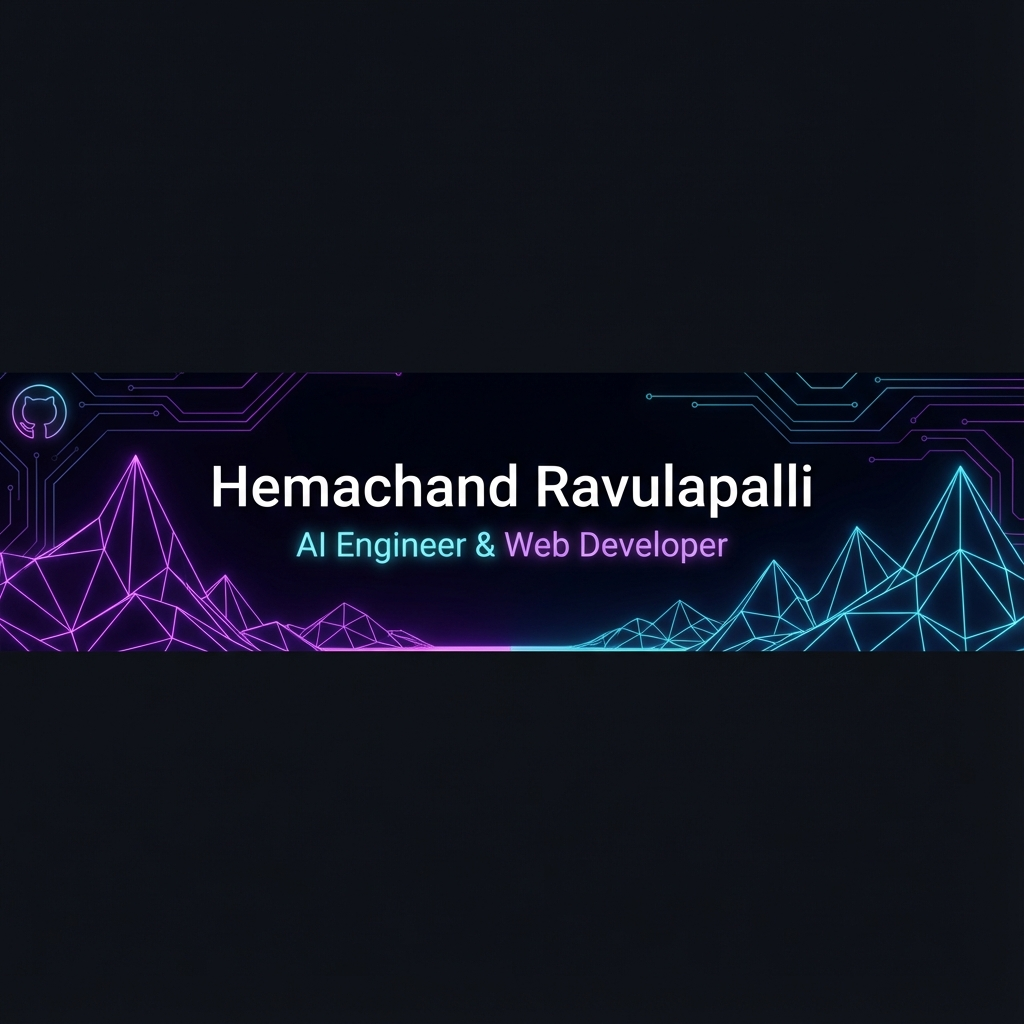
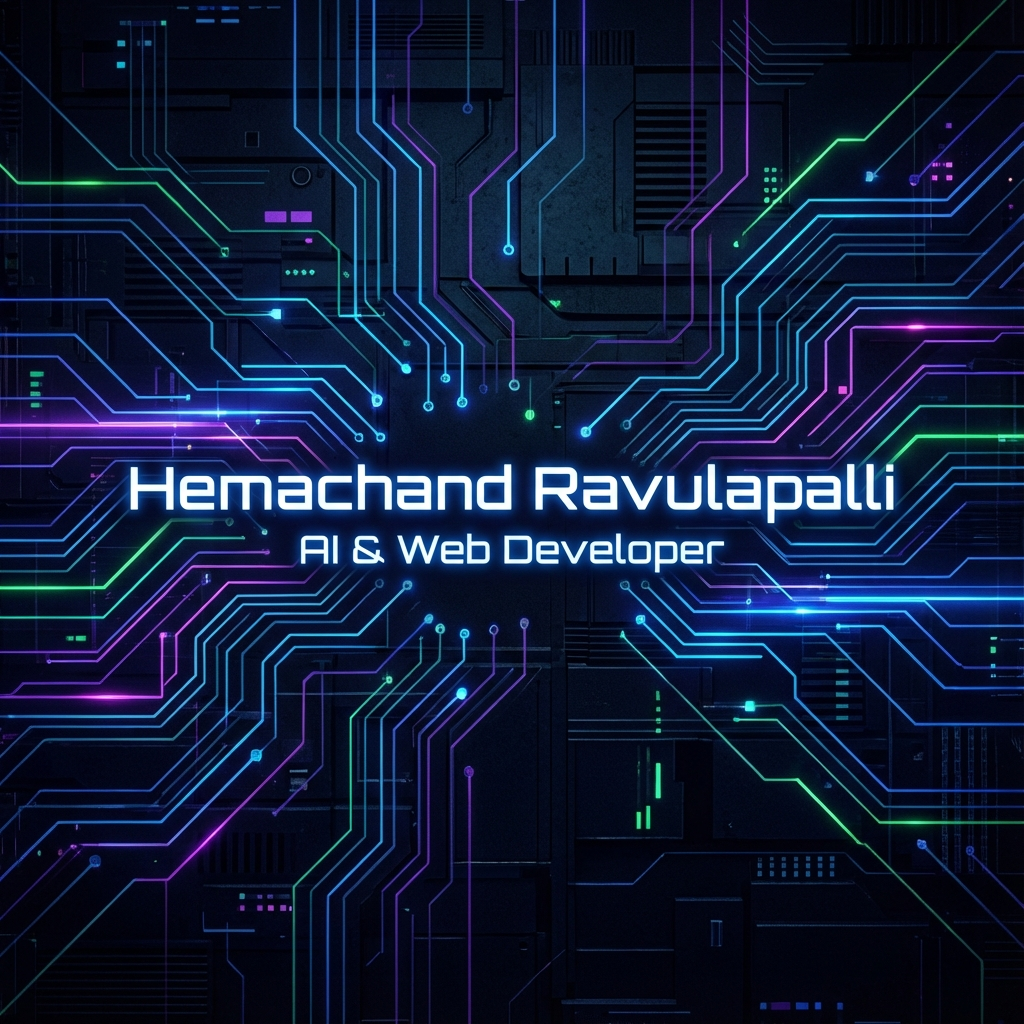
Optimize header space and update design

diff --git a/README.md b/README.md
@@ -1,4 +1,6 @@
-![Header](new_header.png)
+<p align="center">
+  <img src="new_header.png" width="600" />
+</p>
 
 # 💫 About Me:
 I am a Computer Science student passionate about Artificial Intelligence and Web Development. I enjoy building intelligent systems and full-stack applications using Python, Java, Django, and React. I am dedicated to solving complex problems through clean code and data-driven insights.
